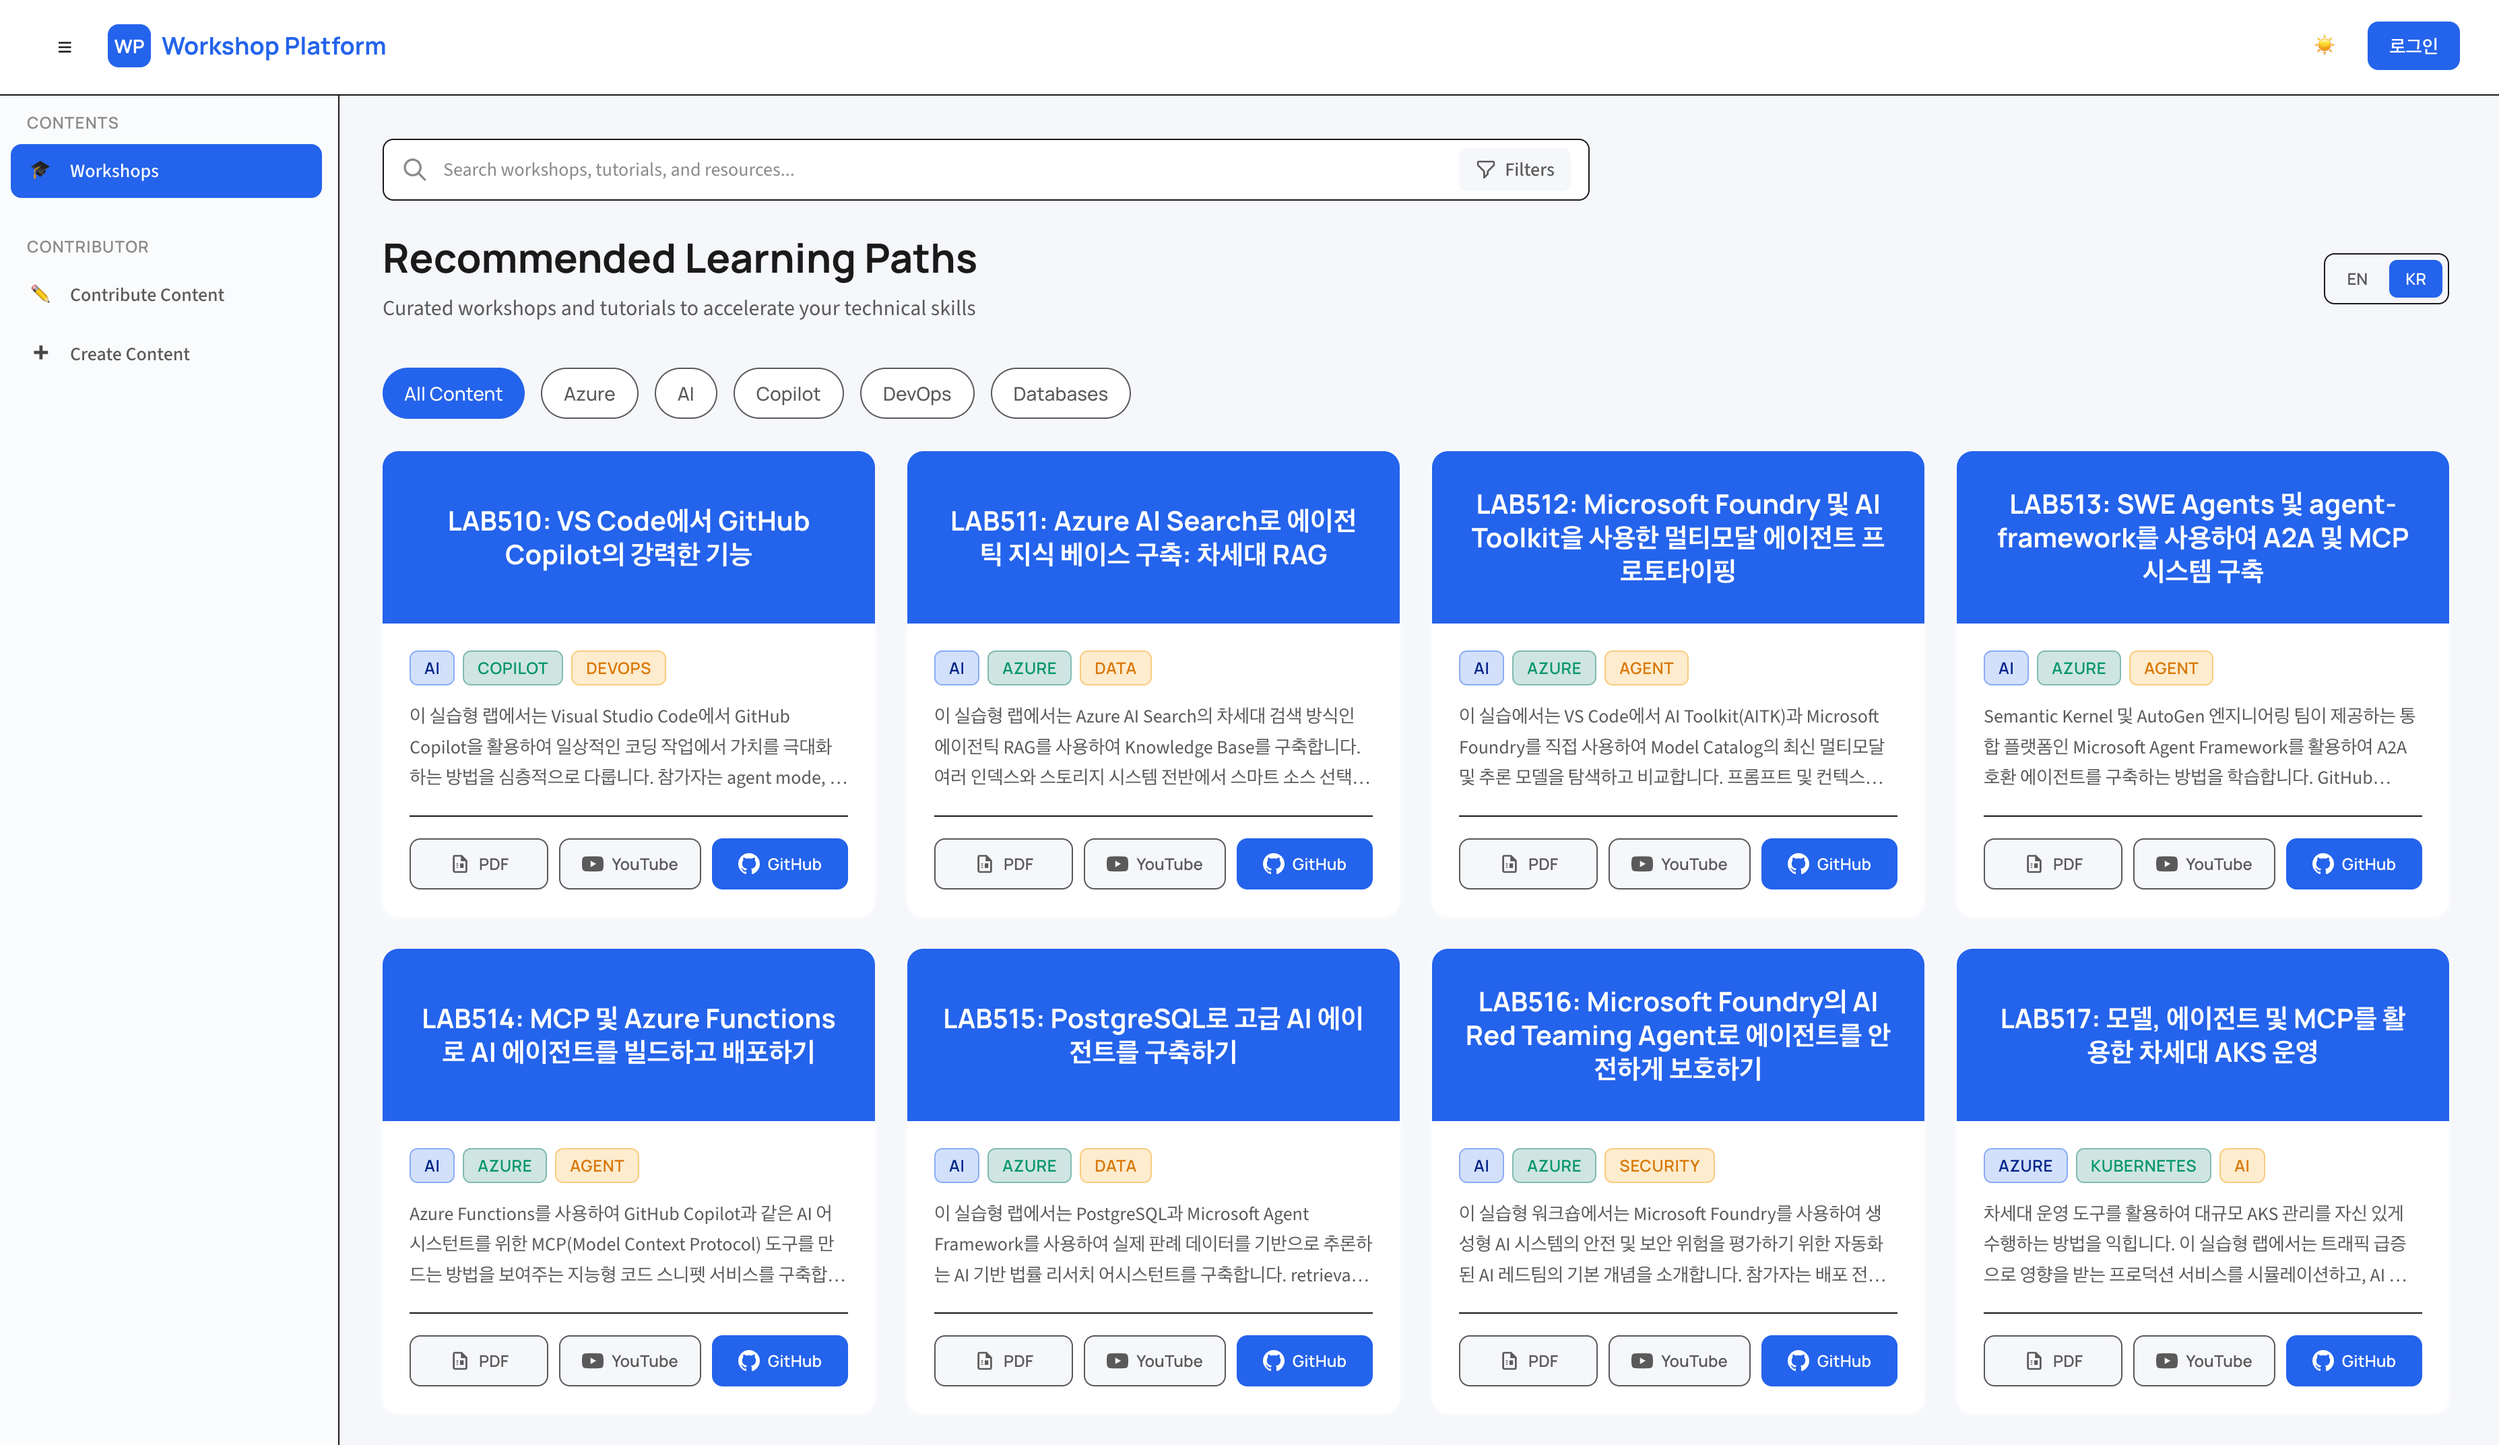
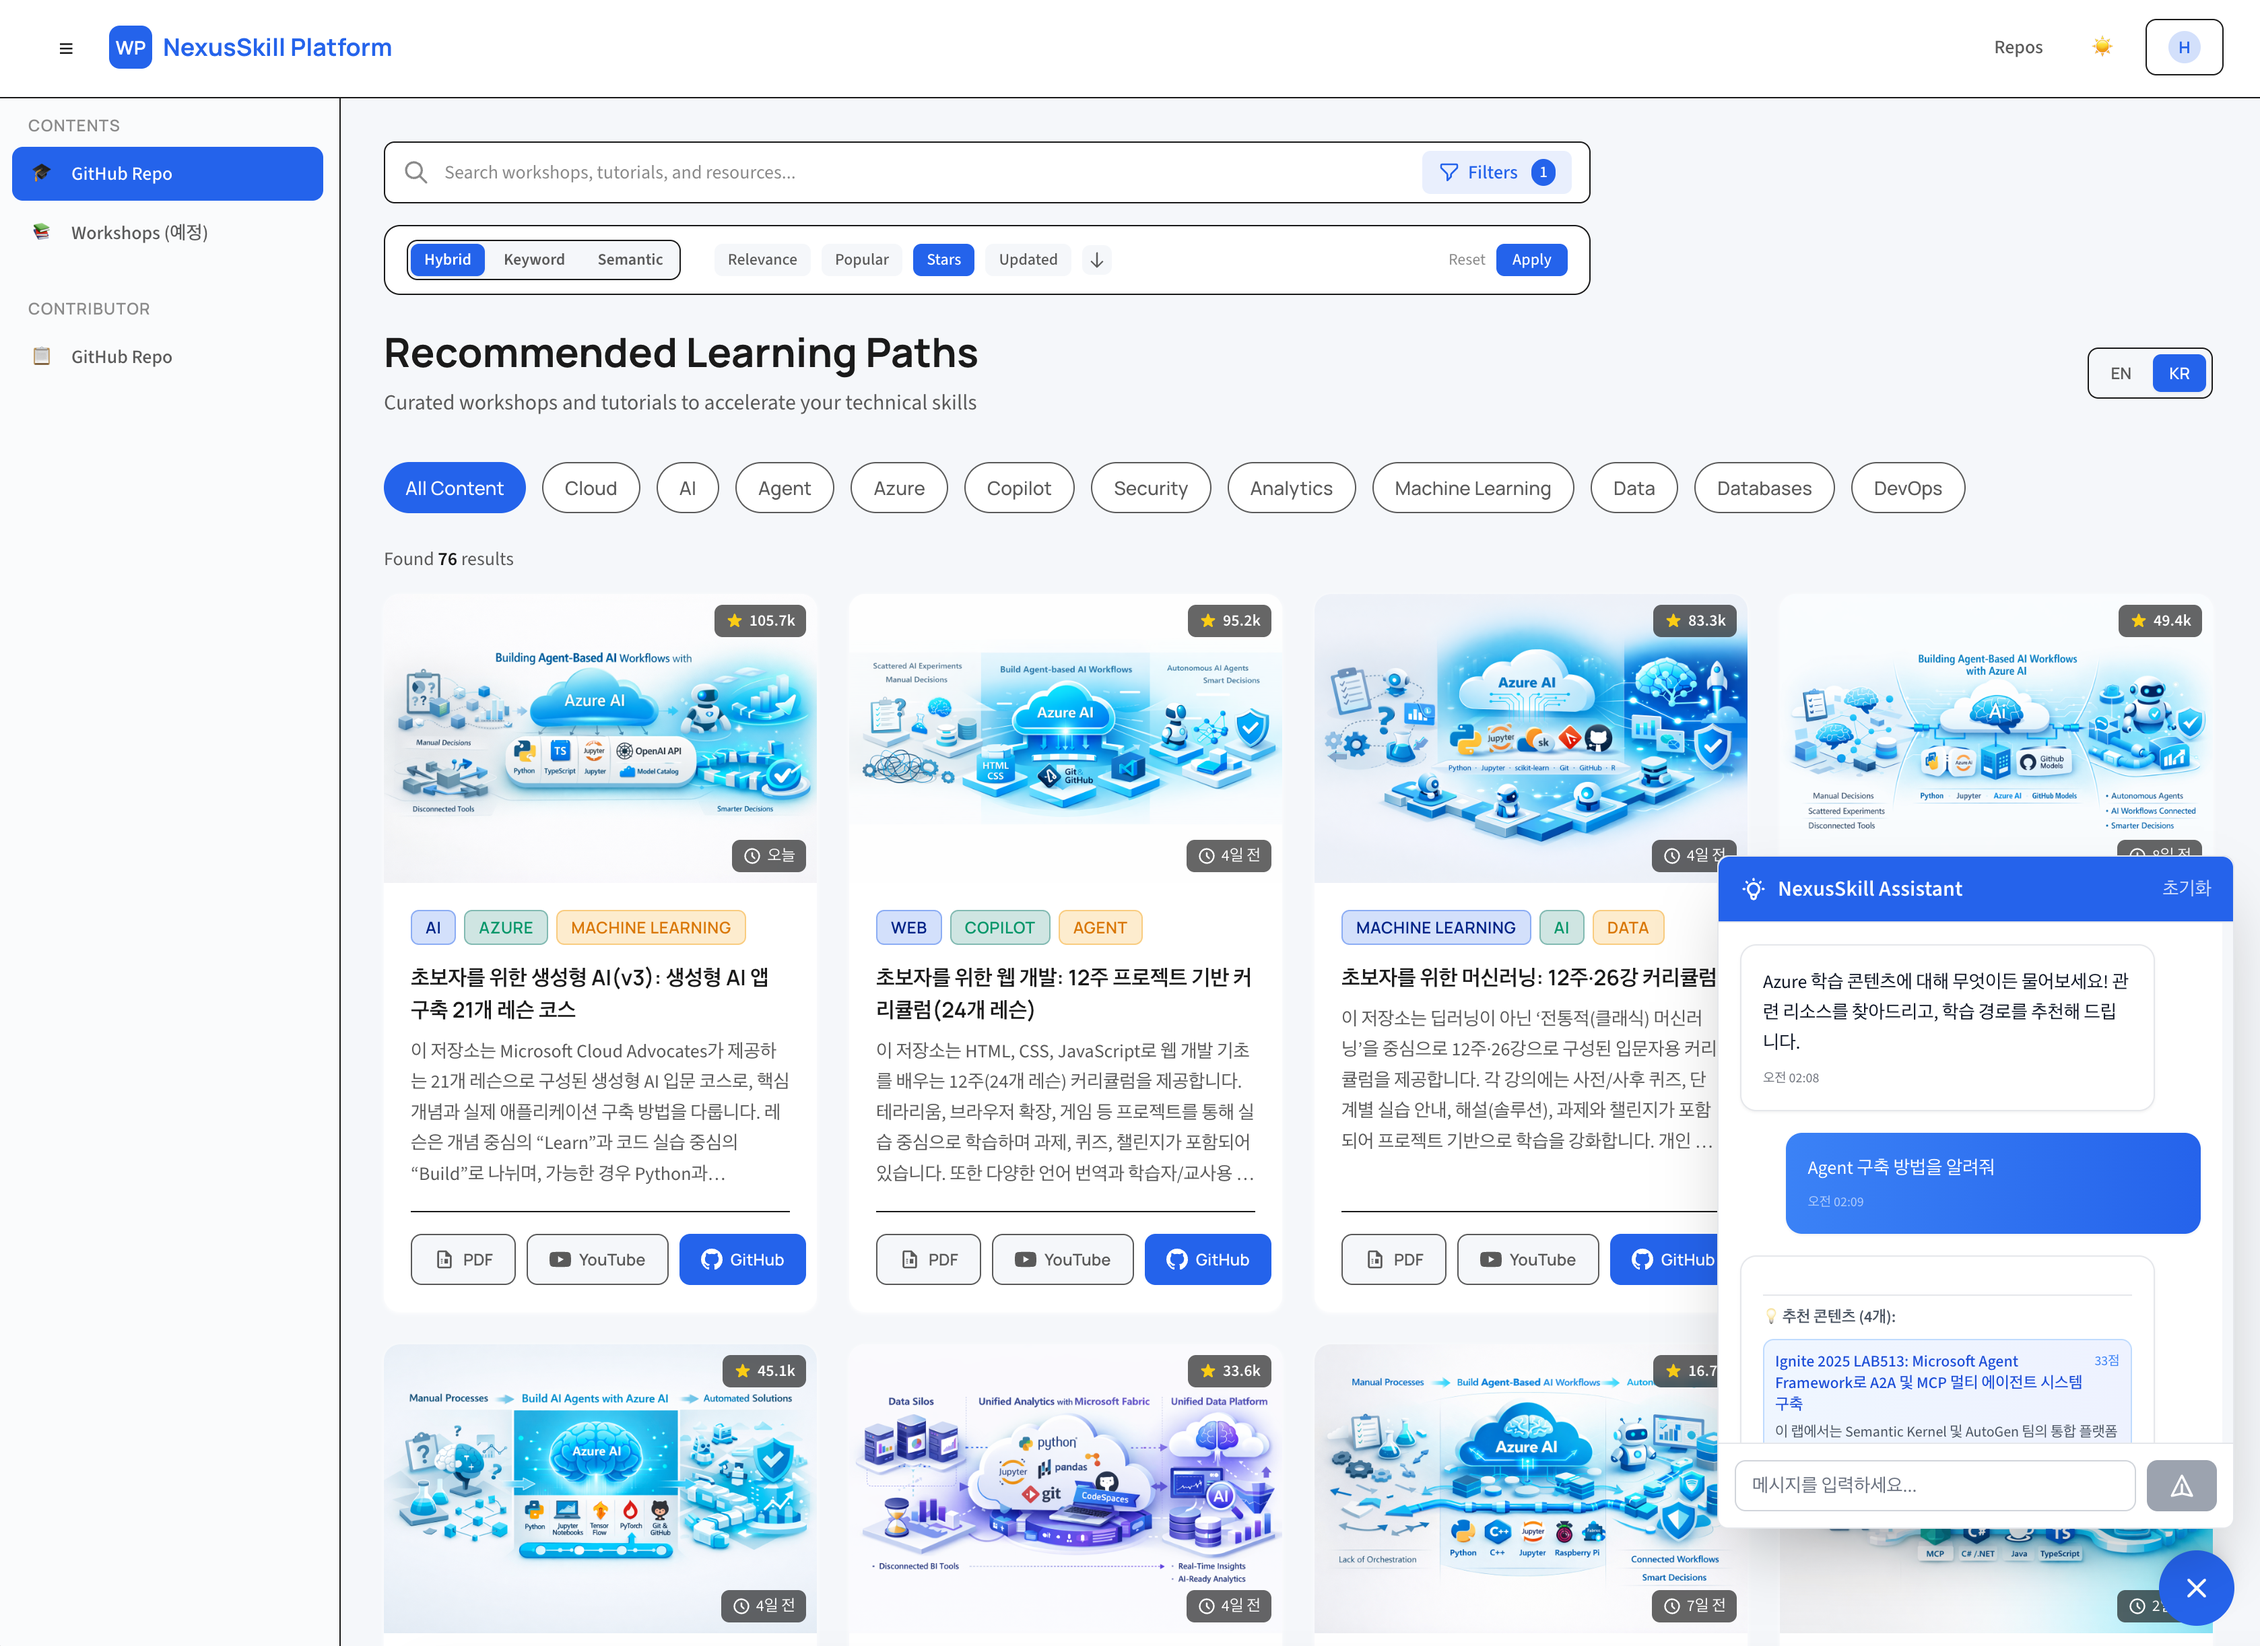
feat: Azure AI Search 및 AI 어시스턴트 API 문서화 및 기능 업데이트

diff --git a/frontend/components/layout/Header.vue b/frontend/components/layout/Header.vue
@@ -65,7 +65,7 @@ watch(() => route.query.login, (newVal) => {
 
 <template>
   <header class="bg-[var(--header-bg)] border-b border-[var(--border)] px-8 py-4 flex items-center justify-between backdrop-blur-sm">
-    <!-- 좌측: 사이드바 토글 + Workshop Platform 제목 -->
+    <!-- 좌측: 사이드바 토글 + NexusSkill Platform 제목 -->
     <div class="flex items-center gap-3">
       <button 
         @click="$emit('toggleSidebar')"
@@ -78,7 +78,7 @@ watch(() => route.query.login, (newVal) => {
         <div class="w-8 h-8 bg-primary rounded-lg flex items-center justify-center text-white font-header font-bold text-sm">
           WP
         </div>
-        <span class="font-header font-bold text-lg" :class="isDarkMode ? 'text-white' : 'text-primary'">Workshop Platform</span>
+        <span class="font-header font-bold text-lg" :class="isDarkMode ? 'text-white' : 'text-primary'">NexusSkill Platform</span>
       </div>
     </div>
     

diff --git a/frontend/components/Assistant.vue b/frontend/components/Assistant.vue
@@ -219,14 +219,6 @@ function scrollToBottom() {
   }
 }
 
-function handleCitationClick(citation: Citation) {
-  emit('select-content', citation.content_id)
-}
-
-function handleSuggestionClick(suggestion: SuggestedContent) {
-  emit('select-content', suggestion.content_id)
-}
-
 function clearChat() {
   messages.value = []
   conversationId.value = null

diff --git a/backend/README.md b/backend/README.md
@@ -76,6 +76,13 @@ backend/
 │   ├── repositories/        # 데이터 저장소
 │   ├── schemas/             # API 스키마
 │   └── services/            # 비즈니스 로직
+│       ├── assistant_service.py    # AI 어시스턴트 (RAG)
+│       ├── content_service.py      # 콘텐츠 관리
+│       ├── github_service.py       # GitHub API 연동
+│       ├── image_generation_service.py  # DALL-E 썸네일
+│       ├── llm_service.py          # Azure OpenAI 분석
+│       ├── search_service.py       # Azure AI Search
+│       └── storage_service.py      # Azure Blob Storage
 ├── tests/                   # 테스트
 ├── Dockerfile               # API 컨테이너
 ├── requirements.txt         # 의존성
@@ -100,6 +107,21 @@ backend/
 |--------|------|------|
 | POST | `/api/v1/analysis/analyze` | GitHub 저장소 분석 |
 | GET | `/api/v1/analysis/{id}` | 분석 결과 조회 |
+
+### 검색 API (Azure AI Search)
+
+| 메서드 | 경로 | 설명 |
+|--------|------|------|
+| GET | `/api/v1/search` | 하이브리드 검색 (BM25 + 벡터) |
+| GET | `/api/v1/search/facets` | 패싯 조회 (카테고리, 기술 등) |
+
+### AI 어시스턴트 API
+
+| 메서드 | 경로 | 설명 |
+|--------|------|------|
+| POST | `/api/v1/assistant/chat` | RAG 기반 채팅 (콘텐츠 추천) |
+| POST | `/api/v1/assistant/explain/{id}` | 콘텐츠 상세 설명 |
+| POST | `/api/v1/assistant/recommend` | 관련 콘텐츠 추천 |
 
 ### 인증 API (OTP 기반)
 
@@ -127,6 +149,17 @@ COSMOS_DATABASE_NAME=buildflow
 AZURE_OPENAI_ENDPOINT=
 AZURE_OPENAI_API_KEY=
 AZURE_OPENAI_DEPLOYMENT=gpt-5.2
+AZURE_OPENAI_EMBEDDING_DEPLOYMENT=text-embedding-3-small
+AZURE_DALLE_DEPLOYMENT=gpt-image-1.5
+
+# Azure AI Search
+AZURE_SEARCH_ENDPOINT=
+AZURE_SEARCH_API_KEY=
+AZURE_SEARCH_INDEX_NAME=buildflow-content
+
+# Azure Blob Storage
+AZURE_STORAGE_CONNECTION_STRING=
+AZURE_STORAGE_CDN_HOST=
 
 # JWT
 JWT_SECRET=

diff --git a/README.md b/README.md
@@ -26,8 +26,8 @@ NexusSkill은 GitHub 저장소를 분석하여 Microsoft 및 Azure 클라우드 
 | AI 기반 콘텐츠 강화 | GPT-5.2를 활용한 요약, 난이도, 학습 성과 생성 | ✅ |
 | 다국어 지원 | 한국어 <-> 영어 자동 번역 | ✅ |
 | 자산 자동 생성 | 썸네일 이미지 자동 생성 | ✅ |
-| 하이브리드 검색 | Azure AI Search 기반 키워드 + 벡터 검색 | ⏳ |
-| AI 챗봇 | 의미 기반 콘텐츠 검색 및 추천 챗봇 | ⏳ |
+| 하이브리드 검색 | Azure AI Search 기반 키워드 + 벡터 검색 | ✅ |
+| AI 챗봇 | 의미 기반 콘텐츠 검색 및 추천 챗봇 | ✅ |
 
 ## 아키텍처 개요
 
@@ -80,17 +80,18 @@ buildflow/
 | **Frontend** | 콘텐츠 그리드 UI | 2026-01-21 | ContentGrid 컴포넌트 |
 | **Frontend** | 언어 토글 (EN/KR) | 2026-01-21 | LanguageToggle 컴포넌트 |
 | **Frontend** | OTP 로그인 UI | 2026-01-22 | 이메일 입력 + OTP 입력 모달 |
+| **인프라** | Azure AI Search 통합 | 2026-01-27 | 하이브리드 검색 인덱스 |
+| **Backend** | 하이브리드 검색 API | 2026-01-27 | BM25 + 벡터 검색 |
+| **Backend** | AI Assistant API | 2026-01-27 | RAG 기반 채팅, 콘텐츠 추천 |
+| **Backend** | 이미지 자동 생성 | 2026-01-27 | DALL-E 썸네일 생성 |
+| **Frontend** | AI 어시스턴트 UI | 2026-01-27 | 플로팅 채팅, 마크다운 렌더링 |
+| **Frontend** | 고급 검색 필터 | 2026-01-27 | 카테고리, 난이도, 기술 필터 |
 
 ### ⏳ 예정된 기능
 
 | 카테고리 | 항목 | 우선순위 | 예상 일정 |
 |----------|------|----------|-----------|
-| **인프라** | Azure AI Search 통합 | 높음 | - |
 | **인프라** | Prod 환경 배포 | 낮음 | 추후 결정 |
-| **Backend** | 하이브리드 검색 API | 높음 | - |
-| **Backend** | AI Assistant (RAG 채팅) | 중간 | - |
-| **Frontend** | AI 어시스턴트 UI | 중간 | - |
-| **Frontend** | 고급 검색 필터 | 중간 | - |
 
 ## 🚀 빠른 시작
 

diff --git a/frontend/README.md b/frontend/README.md
@@ -93,12 +93,16 @@ frontend/
 - 다국어 콘텐츠 표시 제어
 
 ### Assistant.vue
-AI 기반 채팅 어시스턴트 인터페이스
+AI 기반 채팅 어시스턴트 인터페이스 (플로팅 버튼)
 
 **기능:**
-- 채팅 UI
-- RAG 기반 콘텐츠 추천 (예정)
-- 학습 가이드 제공 (예정)
+- 플로팅 채팅 버튼 UI
+- RAG 기반 콘텐츠 검색 및 추천 (0-5개)
+- 추천 이유 설명 (LLM 생성)
+- 마크다운 렌더링 (marked.js)
+- 다국어 지원 (EN/KR 토글 연동)
+- 인용 및 관련 콘텐츠 카드
+- 대화 기록 (최대 10개, 세션 내)
 
 ## 📦 상태 관리 (Pinia)
 
@@ -148,8 +152,19 @@ analyzeRepository(url)       // 저장소 분석
 
 | 경로 | 컴포넌트 | 설명 |
 |------|----------|------|
-| `/` | Home.vue | 메인 홈 페이지 |
-| `/contribute` | ContributeContent.vue | 콘텐츠 기여 페이지 |
+| `/` | Home.vue | 메인 홈 페이지 (검색, 필터, 콘텐츠 그리드) |
+| `/contribute` | ContributeContent.vue | 콘텐츠 기여 페이지 (Contributor 전용) |
+
+## 🔍 검색 및 필터링
+
+### 카테고리 필터
+- Cloud, AI, Agent, Azure, Copilot, Security
+- Analytics, Machine Learning, Data, Databases, DevOps
+
+### 고급 검색 필터
+- 난이도 (Beginner, Intermediate, Advanced)
+- 기술 스택 (Azure Functions, Cosmos DB 등)
+- 콘텐츠 타입 (Workshop, Tutorial, Sample)
 
 ## 🧪 테스트
 

diff --git a/infra/README.md b/infra/README.md
@@ -37,7 +37,7 @@ infra/
 
 | 리소스 | 타입 | 상태 | 설명 |
 |--------|------|------|------|
-| Azure AI Search | `Microsoft.Search/searchServices` | ⏳ 예정 | 하이브리드 검색 |
+| Azure AI Search | `Microsoft.Search/searchServices` | ✅ 배포됨 | 하이브리드 검색 |
 | Storage Account | `Microsoft.Storage/storageAccounts` | ✅ 배포됨 | 자산 저장소 |
 | Key Vault | `Microsoft.KeyVault/vaults` | ✅ 배포됨 | 시크릿 관리 |
 
@@ -94,8 +94,8 @@ az deployment group create \
 | `enablePipelines` | `true` | Container Apps Jobs 활성화 |
 | `enableFrontend` | `true` | Static Web App 활성화 |
 | `acsConnectionString` | - | Azure Communication Services 연결 문자열 (OTP 이메일) |
-| `acsSenderAddress` | - | OTP 이메일 발신자 주소 |
-| `corsOrigins` | `http://localhost:5173,...` | CORS 허용 도메인 (쉼표 구분) |
+| `acsSenderAddress` | - | OTP 이메일 발신자 주소 || `azureSearchEndpoint` | - | Azure AI Search 엔드포인트 |
+| `azureSearchApiKey` | - | Azure AI Search API 키 || `corsOrigins` | `http://localhost:5173,...` | CORS 허용 도메인 (쉼표 구분) |
 
 ## 🌍 환경별 설정
 
